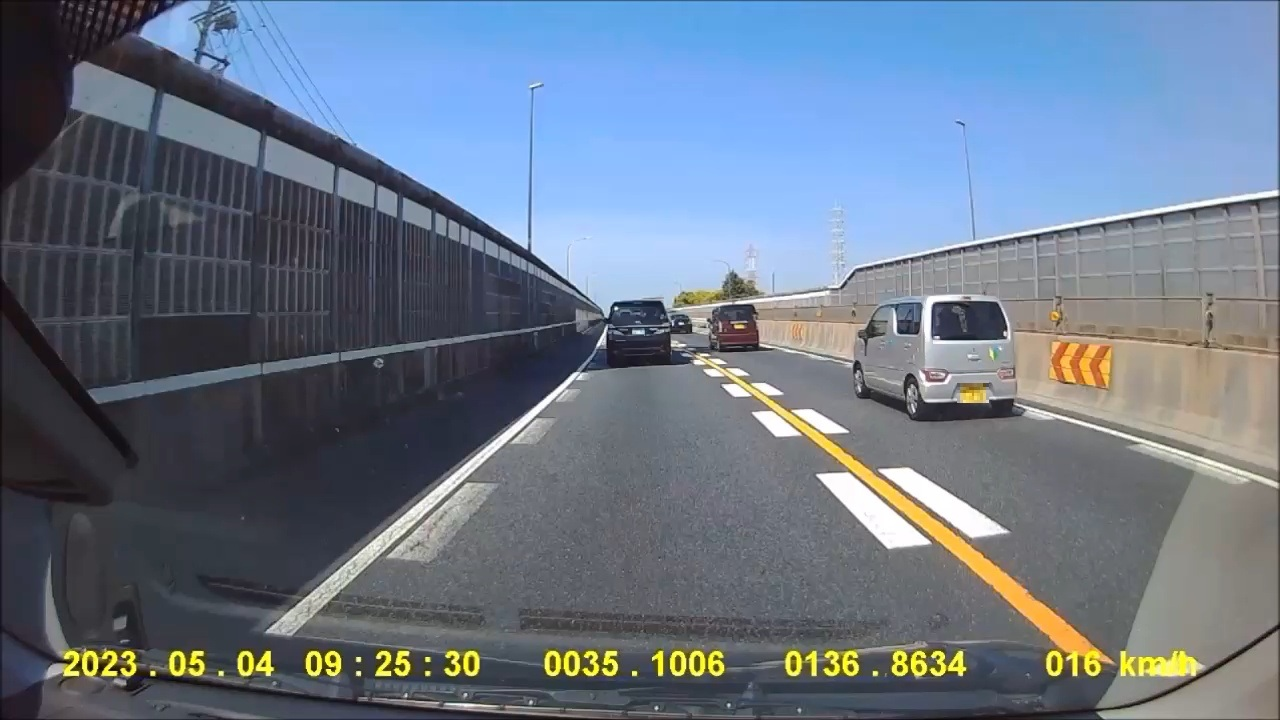
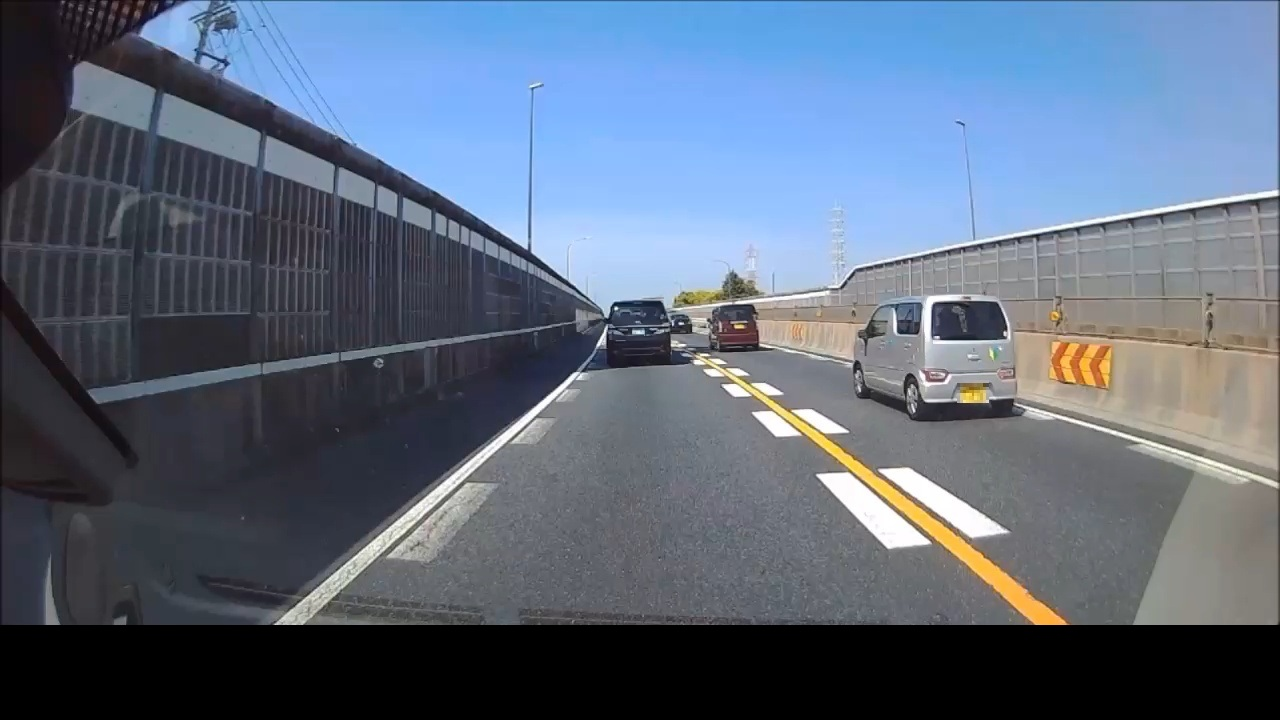
readme記載修正、公開用に画像編集etc.

Changed region(s): [[0.0, 0.8556, 1.0, 1.0]]

diff --git a/README.md b/README.md
@@ -8,14 +8,14 @@ pytorch ssdの転移学習を実行するソース一式です。
 | utils/ | SSDモデル実装等のソース（モデルはVGG16ベースのSSD300）  |
 | common_ssd.py | 推論/学習共通部分のソース |
 | train_ssd.py | 学習実行ソース |
-| predict_ssd.py | 推論実行ソース |
+| predict_ssd.py | 検知（推論）実行ソース |
 | movie_player.py | 動画(mp4)から学習用画像切り出しツール(ソース) |
 | data/od_cars_org_F00000.jpg | テストデータ（推論用画像） |
 | data/od_cars_sample/ | テストデータ（学習用画像、アノテーションデータ） |
 | weights/ssd_best_od_cars.pth | 学習済みSSD重みデータ(車、ナンバープレートを学習済) |
 | weights/ssd_best_od_cars_classes.txt | ssd_best_od_cars.pthで学習したクラス名 |
 | python_version.txt | 動作確認したpythonバージョン |
-| requires.txt | 動作確認したpythonモジュールのバージョン |
+| python_module_version.txt | 動作確認したpythonモジュールのバージョン |
 
 SSDモデル実装等のソース(utils以下のソース)は、以下掲載ソースをベースに、上述のpythonバージョンで動作するよう一部修正したものです。
 
@@ -38,7 +38,7 @@ https://github.com/YutaroOgawa/pytorch_advanced/tree/master/2_objectdetection/ut
 
 入力画像/動画の解像度は1280x800、検出対象は車＆ナンバープレートの想定で、predict_ssd.py末尾の以下コードで検出範囲を設定しています（車がいそうな領域を4分割）。
 
-異なる解像度の画像や、検出対象がいそうな領域が違う場合は、以下を適宜編集してご利用ください。現状、境界値チェックを入れれておらず、はみ出すと落ちてしまうので、ご注意ください。
+異なる解像度の画像や、検出対象がいそうな領域が違う場合は、以下の検出範囲を適宜編集してご利用ください。現状、境界値チェックを入れれておらず、はみ出すと落ちてしまうので、ご注意ください。
 
 ```predict_ssd.py
 # 検出範囲
@@ -55,7 +55,7 @@ img_procs = [ImageProc(110, 250, 530, 600),
 
 ## 学習実行方法
 
-以下を実行
+以下を実行します。
 
 1. VGG16の学習済み重みをダウンロード
 1. 学習データ作成（アノテーション）
@@ -70,9 +70,9 @@ https://s3.amazonaws.com/amdegroot-models/vgg16_reducedfc.pth
 
 検出対象が映っている画像をできるだけたくさん集め、検出対象を囲む枠をxmlファイルで作成します。labelImgで作成します。
 
-学習済みSSD重みデータ（weights/ssd_best_od_cars.pth）を学習したときのデータの一部をdata/od_cars_sample/　に置きましたので、参考にしていただけたらと思います（ナンバープレートが映った画像が多く含まれるので全部は公開できません。。すみません）。
+学習済みSSD重みデータ（weights/ssd_best_od_cars.pth）を学習したときのデータの一部をdata/od_cars_sample/　に置きましたので、参考にしていただけたらと思います（ナンバープレートが映った画像が多く含まれるので全部は公開できません。。）。
 
-labelImgは、以下リンクで構築可能なdockerコンテナにインストール済みです。今回のソースもそのまま動かせますので、よかったらご活用ください。
+labelImgは、以下リンクのファイル一式から構築可能なdockerコンテナにインストール済みです。今回のソースもそのまま動かせますので、よかったらご活用ください。
 
 https://github.com/Shimasaki2021/docker_pytorch
 
@@ -85,7 +85,7 @@ https://github.com/Shimasaki2021/docker_pytorch
 ./movie_player.py data/NNF_230504-092531.mp4 0.5
 ```
 
-切り出し領域は、movie_player.py 末尾付近の以下を適宜編集してご利用ください。predict_ssd.pyと同じ設定にする必要はありません。
+切り出し領域は、movie_player.py 末尾付近の以下を適宜編集してご利用ください。predict_ssd.pyの検出範囲と同じ設定にする必要はありません。
 
 ```movie_player.py
 # 切り出し領域
